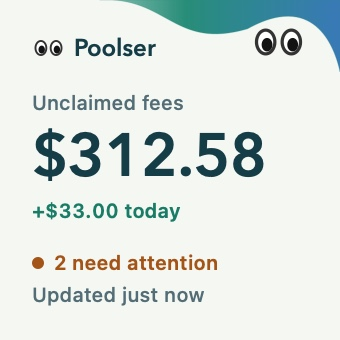
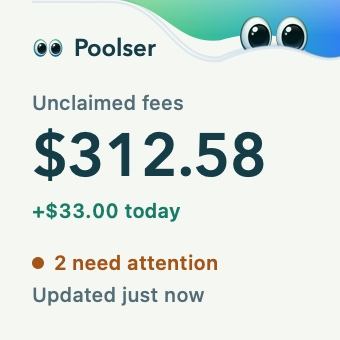
feat: apply soft crest with original poolser character

Changed region(s): [[0.3529, 0.0, 1.0, 0.2059], [0.0882, 0.1176, 0.2059, 0.1765]]

diff --git a/Sources/PoolserKit/Presentation/PoolBrand.swift b/Sources/PoolserKit/Presentation/PoolBrand.swift
@@ -13,28 +13,54 @@ public enum PoolTypography {
 /// The brand accent is separate from the fee pool: its shape never implies a financial value.
 public struct PoolBrandRibbon: View {
     private let animated: Bool
+    private let compact: Bool
     @Environment(\.colorScheme) private var scheme
     @Environment(\.accessibilityReduceMotion) private var reduceMotion
     @State private var appeared = false
 
-    public init(animated: Bool = true) { self.animated = animated }
+    public init(animated: Bool = true, compact: Bool = false) {
+        self.animated = animated
+        self.compact = compact
+    }
 
     public var body: some View {
         let palette = GraphitePalette.current(scheme)
-        ZStack(alignment: .topTrailing) {
-            RibbonShape()
-                .fill(LinearGradient(colors: [palette.brandStart.opacity(0.12), palette.brandStart, palette.brandEnd],
-                                     startPoint: .leading, endPoint: .trailing))
-                .overlay(RibbonShape().stroke(palette.brandStart.opacity(0.24), lineWidth: 0.5))
-                .scaleEffect(x: 1, y: reduceMotion || appeared || !animated ? 1 : 0.2, anchor: .topTrailing)
-            PoolEyes()
-                .scaleEffect(1.35)
-                .padding(.trailing, 22)
-                .padding(.top, 16)
-                .opacity(appeared || !animated ? 1 : 0)
-                .animation(reduceMotion ? nil : .easeOut(duration: 0.2).delay(0.22), value: appeared)
+        let surface = compact ? palette.popover : palette.card
+        let height: CGFloat = compact ? 36 : 54
+        let eyesWidth: CGFloat = compact ? 34 : 52
+        GeometryReader { geometry in
+            ZStack(alignment: .topTrailing) {
+                CrestShape(front: false)
+                    .fill(LinearGradient(
+                        stops: [
+                            .init(color: Color(red: 0.35, green: 0.80, blue: 0.42), location: 0.3),
+                            .init(color: Color(red: 0.19, green: 0.72, blue: 0.65), location: 0.66),
+                            .init(color: Color(red: 0.18, green: 0.51, blue: 0.94), location: 1)
+                        ],
+                        startPoint: .leading, endPoint: .trailing
+                    ))
+                // A low highlight rounds the crest without turning the whole card glossy.
+                CrestShape(front: false)
+                    .fill(LinearGradient(colors: [.white.opacity(0.3), .clear, .clear],
+                                         startPoint: .top, endPoint: .bottom))
+                PoolEyes(width: eyesWidth)
+                    .padding(.top, height * 0.22)
+                    .padding(.trailing, compact ? 16 : 22)
+                    .opacity(appeared || !animated ? 1 : 0)
+                    .animation(reduceMotion ? nil : .easeOut(duration: 0.2).delay(0.22), value: appeared)
+                CrestShape(front: true)
+                    .fill(surface)
+                CrestEdge()
+                    .stroke(palette.brandEnd.opacity(scheme == .dark ? 0.2 : 0.12), lineWidth: 3)
+                    .blur(radius: 2)
+                CrestEdge()
+                    .stroke(LinearGradient(colors: [surface, .white.opacity(0.75), palette.brandEnd.opacity(0.35)],
+                                           startPoint: .leading, endPoint: .trailing), lineWidth: 0.8)
+            }
+            .frame(width: geometry.size.width, height: height)
+            .scaleEffect(x: 1, y: reduceMotion || appeared || !animated ? 1 : 0.2, anchor: .topTrailing)
         }
-        .frame(height: 36)
+        .frame(height: height)
         .opacity(appeared || !animated ? 1 : 0)
         .animation(.easeOut(duration: reduceMotion ? 0.15 : 0.55), value: appeared)
         .onAppear { appeared = true }
@@ -44,32 +70,93 @@ public struct PoolBrandRibbon: View {
     }
 }
 
-private struct RibbonShape: Shape {
+private struct CrestShape: Shape {
+    let front: Bool
+
     func path(in r: CGRect) -> Path {
-        var p = Path()
-        p.move(to: CGPoint(x: r.width * 0.22, y: 0))
-        p.addCurve(to: CGPoint(x: r.width * 0.70, y: r.height * 0.4),
-                   control1: CGPoint(x: r.width * 0.44, y: -r.height * 0.05),
-                   control2: CGPoint(x: r.width * 0.46, y: r.height * 0.7))
-        p.addCurve(to: CGPoint(x: r.width, y: r.height),
-                   control1: CGPoint(x: r.width * 0.91, y: -r.height * 0.1),
-                   control2: CGPoint(x: r.width * 0.98, y: r.height * 0.6))
-        p.addLine(to: CGPoint(x: r.width, y: 0))
+        var p = CrestEdge.curve(in: r, front: front)
+        if front {
+            p.addLine(to: CGPoint(x: r.maxX, y: r.maxY))
+            p.addLine(to: CGPoint(x: r.minX, y: r.maxY))
+        } else {
+            p.addLine(to: CGPoint(x: r.maxX, y: r.minY))
+            p.addLine(to: CGPoint(x: r.minX, y: r.minY))
+        }
         p.closeSubpath()
         return p
     }
 }
 
-public struct PoolBrandMark: View {
-    public init() {}
-    @Environment(\.colorScheme) private var scheme
+private struct CrestEdge: Shape {
+    func path(in r: CGRect) -> Path { Self.curve(in: r, front: true) }
+
+    static func curve(in r: CGRect, front: Bool) -> Path {
+        var p = Path()
+        p.move(to: CGPoint(x: 0, y: 0))
+        p.addLine(to: CGPoint(x: r.width * 0.25, y: 0))
+        p.addCurve(to: CGPoint(x: r.width * 0.61, y: r.height * (front ? 0.82 : 0.56)),
+                   control1: CGPoint(x: r.width * 0.43, y: 0),
+                   control2: CGPoint(x: r.width * 0.46, y: r.height * (front ? 0.89 : 0.63)))
+        p.addCurve(to: CGPoint(x: r.width, y: r.height * (front ? 0.78 : 1)),
+                   control1: CGPoint(x: r.width * 0.86, y: r.height * (front ? 0.37 : 0.25)),
+                   control2: CGPoint(x: r.width * 0.89, y: r.height * (front ? 0.90 : 0.88)))
+        return p
+    }
+}
+
+/// Samples the unmodified app icon; the crop and masks retain its actual pupils and reflections.
+public struct PoolEyes: View {
+    private let width: CGFloat
+
+    public init(width: CGFloat = 18) { self.width = width }
 
     public var body: some View {
-        RoundedRectangle(cornerRadius: 9, style: .continuous)
-            .fill(GraphitePalette.current(scheme).brand)
-            .overlay { PoolEyes() }
-            .frame(width: 28, height: 26)
-            .rotationEffect(.degrees(-6))
-            .accessibilityHidden(true)
+        let scale = width / 700
+        GeometryReader { _ in
+            if let artwork = PoolCharacterArtwork.image {
+                Image(platformImage: artwork)
+                    .resizable()
+                    .interpolation(.high)
+                    .frame(width: 1024 * scale, height: 1024 * scale)
+                    .position(x: (512 - 160) * scale, y: (512 - 306) * scale)
+            }
+        }
+        .frame(width: width, height: 416 * scale)
+        .mask {
+            HStack(spacing: 40 * scale) {
+                Ellipse()
+                Ellipse()
+            }
+        }
+        .accessibilityHidden(true)
+    }
+}
+
+enum PoolCharacterArtwork {
+    static let image: PlatformImage? = {
+        guard let url = Bundle.module.url(forResource: "PoolserCharacter", withExtension: "png") else { return nil }
+        #if canImport(AppKit)
+        return PlatformImage(contentsOf: url)
+        #else
+        return PlatformImage(contentsOfFile: url.path)
+        #endif
+    }()
+}
+
+public struct PoolBrandMark: View {
+    public init() {}
+
+    public var body: some View {
+        Group {
+            if let artwork = PoolCharacterArtwork.image {
+                Image(platformImage: artwork)
+                    .resizable()
+                    .interpolation(.high)
+            }
+        }
+        .frame(width: 34, height: 34)
+        .frame(width: 28, height: 28)
+        .clipShape(RoundedRectangle(cornerRadius: 8, style: .continuous))
+        .accessibilityHidden(true)
     }
 }

diff --git a/Sources/Poolser/Graphite/StoreScreenshots.swift b/Sources/Poolser/Graphite/StoreScreenshots.swift
@@ -43,8 +43,10 @@ enum StoreScreenshots {
 
     private static func render(into folder: URL) async throws {
         try FileManager.default.createDirectory(at: folder, withIntermediateDirectories: true)
-        await DemoWallet.prefetchIcons()
+        let selection = ProcessInfo.processInfo.environment["POOLSER_SCREENSHOT_FILTER"]
+        if selection == nil { await DemoWallet.prefetchIcons() }
         for shot in shots {
+            guard selection.map({ shot.name.contains($0) }) ?? true else { continue }
             let image = try await capture(shot)
             let url = folder.appendingPathComponent(shot.name)
             try FileManager.default.createDirectory(at: url.deletingLastPathComponent(), withIntermediateDirectories: true)
@@ -60,6 +62,18 @@ enum StoreScreenshots {
         let flashTitle = MenuBarTitle.text(valueUSD: snapshot.totalValueUSD, feesUSD: snapshot.unclaimedFeesUSD, trend: "🔼")
 
         return [
+            Shot(name: "redesign/soft-crest.png", size: CGSize(width: 420, height: 120), view: AnyView(
+                VStack(spacing: 16) {
+                    PoolBrandRibbon(animated: false)
+                    HStack(spacing: 20) {
+                        PoolBrandMark()
+                        PoolEyes(width: 70)
+                        Text("Poolser").font(PoolTypography.heading(20))
+                    }
+                }
+                .padding(.bottom, 12)
+                .background(GraphitePalette.light.card)
+            )),
             Shot(name: "redesign/widget-small-light.png", size: CGSize(width: 170, height: 170), view: AnyView(
                 PortfolioWidgetView(snapshot: .preview, size: .small, date: .now)
                     .padding(16).background(GraphitePalette.light.popover)

diff --git a/Sources/PoolserKit/Presentation/GraphitePositionCard.swift b/Sources/PoolserKit/Presentation/GraphitePositionCard.swift
@@ -513,33 +513,6 @@ struct PoolGauge: View {
     }
 }
 
-/// The logo's eyes, small enough to sit beside a caption.
-public struct PoolEyes: View {
-    public init() {}
-
-    public var body: some View {
-        HStack(spacing: 1.5) {
-            eye
-            eye
-        }
-        .accessibilityHidden(true)
-    }
-
-    private var eye: some View {
-        Ellipse()
-            .fill(.white)
-            .overlay(Ellipse().strokeBorder(Color(white: 0.2), lineWidth: 1.2))
-            .overlay(alignment: .bottomTrailing) {
-                Ellipse()
-                    .fill(Color(white: 0.07))
-                    .frame(width: 4, height: 5)
-                    .padding(.trailing, 1.5)
-                    .padding(.bottom, 1.5)
-            }
-            .frame(width: 8, height: 10)
-    }
-}
-
 // MARK: - Small parts
 
 struct StatusPill: View {

diff --git a/Sources/PoolserKit/Widget/PortfolioWidgetViews.swift b/Sources/PoolserKit/Widget/PortfolioWidgetViews.swift
@@ -26,7 +26,7 @@ public struct PortfolioWidgetView: View {
     public var body: some View {
         let palette = GraphitePalette.current(colorScheme)
         ZStack(alignment: .topTrailing) {
-            PoolBrandRibbon(animated: false)
+            PoolBrandRibbon(animated: false, compact: true)
                 .padding(.top, -16)
                 .padding(.trailing, -16)
             if let snapshot, snapshot.positionCount > 0 {

diff --git a/Tests/PoolserTests/BrandArtworkTests.swift b/Tests/PoolserTests/BrandArtworkTests.swift
@@ -1,0 +1,14 @@
+import Testing
+@testable import PoolserKit
+
+@Suite("Brand artwork")
+struct BrandArtworkTests {
+    @Test func characterDecodesFromSharedResourceBundle() throws {
+        let image = try #require(PoolCharacterArtwork.image)
+        #expect(image.size.width > 0)
+        #expect(image.size.height > 0)
+        #if canImport(AppKit)
+        #expect(image.tiffRepresentation != nil)
+        #endif
+    }
+}

diff --git a/Package.swift b/Package.swift
@@ -10,7 +10,8 @@ let package = Package(
     targets: [
         .target(
             name: "PoolserKit",
-            path: "Sources/PoolserKit"
+            path: "Sources/PoolserKit",
+            resources: [.process("Resources")]
         ),
         .executableTarget(
             name: "Poolser",

diff --git a/docs/BRAND.md b/docs/BRAND.md
@@ -24,7 +24,7 @@ Green conveys earnings or an active range. Amber conveys attention; retain a tex
 
 Use Avenir Next Demi Bold for the wordmark and prominent financial figures, with tabular digits. Use the native text face for labels and controls so accessibility sizes remain familiar. Keep addresses and technical identifiers monospaced. Reserve bold for the amount and section hierarchy.
 
-Use an 8-point spacing rhythm, 16–20-point continuous card corners, hairline separators and capsule range tracks. The signature is an asymmetric jade-to-blue ribbon with small curious eyes. It is decorative, hidden from accessibility, and does not intercept interaction. Do not substitute decoration for the existing fee-pool level visualization.
+Use an 8-point spacing rhythm, 16–20-point continuous card corners, hairline separators and capsule range tracks. The signature is Soft Crest: a broad, softly layered green-to-turquoise-to-blue wave at the upper right, with the original character peeking from behind its front edge. The crest uses the brighter icon colours; data, text and controls retain the semantic palette above. It is decorative, hidden from accessibility, and does not intercept interaction. Do not substitute decoration for the existing fee-pool level visualization.
 
 ## Information and interaction
 
@@ -36,7 +36,7 @@ Daily bars reveal their date and amount on hover or tap; keyboard and screen-rea
 
 ## Motion
 
-Preserve the existing fee pool pouring and settling on opening. The brand ribbon enters briefly and its eyes fade in slightly later. Show data immediately. No perpetual decorative animation or repeated animation during ordinary refreshes. Respect Reduce Motion: no wave travel or slosh, only a short dissolve for the brand accent. Widgets are static.
+Preserve the existing fee pool pouring and settling on opening. The Soft Crest wave enters briefly and its eyes fade in slightly later. Show data immediately. No perpetual decorative animation or repeated animation during ordinary refreshes. Respect Reduce Motion: no wave travel or slosh, only a short dissolve for the brand accent. Widgets are static.
 
 ## Platforms
 
@@ -57,3 +57,11 @@ The native macOS hover help exposes exact prices, holdings and identifiers witho
 The all-wallets summary uses a deeper jade-to-petrol gradient for white-text contrast and retains its allocation bar and grouped positions. The mobile app keeps its existing wallet navigation; the concept's extra bottom tabs are not part of this implementation.
 
 Reference captures from the actual shared views (demo data): [macOS light](screenshots/redesign/macos-light.png), [macOS dark](screenshots/redesign/macos-dark.png), [small widget](screenshots/redesign/widget-small-light.png), [medium widget](screenshots/redesign/widget-medium-light.png).
+
+### Soft Crest character
+
+Use the original icon artwork for the character. `Sources/PoolserKit/Resources/PoolserCharacter.png` is an unmodified copy of the 1024-pixel app icon, shared by macOS, iOS and widgets through the package resource bundle. `PoolCharacterArtwork` loads the PNG explicitly from its bundle URL on each platform. `PoolEyes` samples the eye region and masks each eyeball at display time, preserving the original glossy pupils, pale rims and reflected highlights. Do not redraw the eyes with ellipses and dots or substitute emoji. The front crest partly covers the eyes; they belong inside the coloured pool, never floating on the white card. `PoolBrandMark` uses the same original icon.
+
+Use a satin crest with a soft rim and restrained depth. Avoid multiple shiny glass folds: the selected direction is Soft Crest. Widgets use a shorter crest and smaller character to keep titles and data readable. The existing fee-pool filling animation remains separate and unchanged.
+
+For a focused reference export, set `POOLSER_SCREENSHOT_FILTER=redesign` with `POOLSER_SCREENSHOTS`. This captures the crest, original character, summary and widgets without waiting for external token icons. Use `popover` to capture only the Mac panels, or omit the filter for the complete screenshot set.
